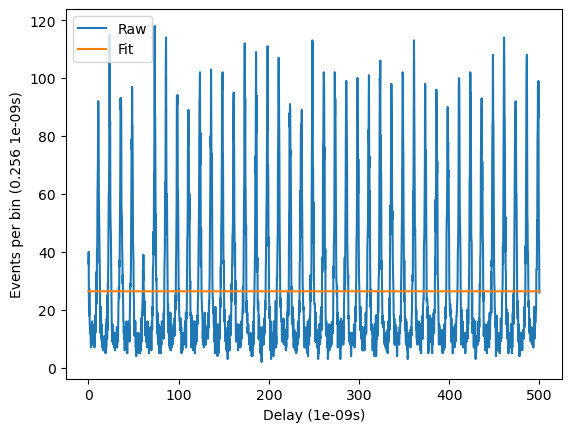
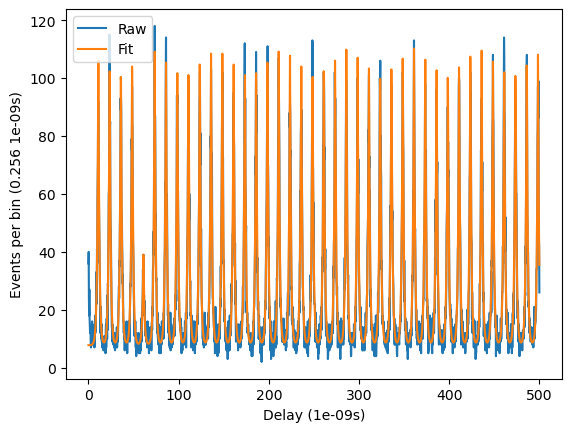
Nelder Mead Fit
Due to the scipy curve fit method not being particularly robust, this code employs third-party lmfit package to fit the histograms.
Currently, the Nelder Mead algorithm initially fits several parameters.
Least-squares refining of amplitudes follows.
It is not yet clear how to represent confidence bounds.

Changed region(s): [[0.1489, 0.1204, 0.9527, 0.8125]]

diff --git a/code/calc.py b/code/calc.py
@@ -7,6 +7,7 @@ Created on Mon Nov 14 21:28:59 2022
 
 import numpy as np
 from scipy.optimize import curve_fit
+from lmfit import Parameters, minimize, fit_report
 
 def compile_domain_knowledge(in_pulse_freq, in_delta_zero, in_delay_range):
     
@@ -73,20 +74,96 @@ def calc_g2zero_quick(in_df_sample, in_bin_size, in_knowledge):
     
     return g2zero, amp_stats, bg_stats
 
-# Define the core fitting function for the delay histogram.
-# Is based on Eq. (2) of: https://doi.org/10.1063/1.5143786
-# x: domain (delays)
-# in_knowledge: domain knowledge for how the delay histogram should look
-# delay_shift: a minor adjustment for peak delays to get the best fit
-# bg: background number of events per bin (noise)
-# amp_env: envelope amplitude for the n peaks, which centres at the MPE peak
-# amp_ratio: the ratio of the MPE peak to the envelope amplitude, i.e. g2(0)
-# inv_decay_env: the inverse decay scale for the envelope
-# decay_peak: the decay scale for an individual peak
-def func(x, in_knowledge, #*args):
-    bg, delay_shift, amp_env, decay_peak, amp_ratio, inv_decay_env):
+# # Define the core fitting function for the delay histogram.
+# # Is based on Eq. (2) of: https://doi.org/10.1063/1.5143786
+# # x: domain (delays)
+# # in_knowledge: domain knowledge for how the delay histogram should look
+# # delay_shift: a minor adjustment for peak delays to get the best fit
+# # bg: background number of events per bin (noise)
+# # amp_env: envelope amplitude for the n peaks, which centres at the MPE peak
+# # amp_ratio: the ratio of the MPE peak to the envelope amplitude, i.e. g2(0)
+# # inv_decay_env: the inverse decay scale for the envelope
+# # decay_peak: the decay scale for an individual peak
+# def func(x, in_knowledge, #*args):
+#     bg, delay_shift, amp_env, decay_peak, amp_ratio, inv_decay_env):
+#     # print(args)
+#     # bg, delay_shift, amp_env, decay_peak, amp_ratio, inv_decay_env = args[0]
+    
+#     # Extract domain knowledge on how the event histogram should look.
+#     n_peaks = in_knowledge["n_peaks"]
+#     id_mpe = in_knowledge["id_mpe"]
+#     pulse_period = in_knowledge["pulse_period"]
+#     delay_start = in_knowledge["delay_start"]
+    
+#     delay_start += delay_shift  # Adjust the domain knowledge with the fit.
+#     delay_mpe = delay_start + id_mpe*pulse_period
+#     # inv_decay_env = 0
+#     # decay_peak = 1e-9
+    
+#     fit = bg
+#     for i in range(n_peaks):
+#         term = amp_env*np.exp(-abs(x-delay_mpe)*inv_decay_env
+#                               -abs(x-delay_start-i*pulse_period)/decay_peak)
+#         if i == id_mpe:
+#             term *= amp_ratio
+#         fit += term
+#     return fit
+
+# # A basic form of the core fitting function with four arguments.
+# # The third and fourth denote a common peak amplitude and decay rate.
+# def func_basic(x, in_knowledge, *args):
+#     print(args)
+#     # bg, delay_shift, amp_env, decay_peak = args[0]
+#     # print("BG %f. Delta %f. Amp all %f. Tau all %f." % (bg, delta, amp_all, tau_all))
+#     return func(x, in_knowledge, *args[0], 0.5, 0)
+
+# # # A fine form of the core fitting function with 2n arguments.
+# # # Assumes the background and delta are already optimised.
+# # # The first n args are amplitudes, and the second n args are decay rates.
+# def func_fine(x, in_knowledge, bg, delay_shift, *args):
+#     print(args)
+#     return func(x, in_knowledge, bg, delay_shift, *args[0])
+
+# def calc_g2zero_fit(in_df_sample, in_df_delays, in_knowledge):
+    
+#     # Set up initial guesses and bounds for fitting parameters in func above.
+#     # They are: bg, delay_shift, amp_env, decay_peak, amp_ratio, inv_decay_env
+#     # n_peaks = in_knowledge["n_peaks"]
+#     # pulse_period = in_knowledge["pulse_period"]
+#     # amp_init = 2*sum(in_df_sample)/len(in_df_delays)
+#     # decay_init = in_df_delays[1] - in_df_delays[0]
+#     # p_init = [0, 0, amp_init, 0.5, 0, decay_init]
+#     # p_bounds = ([-pulse_period/2, 0, 0, 0, 0, 0], 
+#     #             [pulse_period/2, np.inf, np.inf, 1, np.inf, np.inf])
+    
+#     pulse_period = in_knowledge["pulse_period"]
+#     decay_init = in_df_delays[1] - in_df_delays[0]
+#     p_init = [0, 0, 1, decay_init]
+#     p_bounds = ([0, -pulse_period/2, 0, 0],
+#                 [np.inf, pulse_period/2, np.inf, pulse_period])
+    
+#     p_opt, p_cov = curve_fit(lambda x, *p: func_basic(x, in_knowledge, p), xdata=in_df_delays, ydata=in_df_sample, p0=p_init, bounds=p_bounds)
+#     p_store = list(p_opt[:2])
+#     p_init = list(p_opt[2:]) + [0.5, 0]
+#     p_bounds = (p_bounds[0][2:] + [0, 0],
+#                 p_bounds[1][2:] + [1, np.inf])
+#     p_opt, p_cov = curve_fit(lambda x, *p: func_fine(x, in_knowledge, p_store[0], p_store[1], p), xdata=in_df_delays, ydata=in_df_sample, p0=p_init, bounds=p_bounds)
+#     p_opt = p_store + list(p_opt)
+#     print(p_opt)
+    
+#     return p_opt
+
+def func(params, x, y, in_knowledge, return_fit_error=False):
     # print(args)
     # bg, delay_shift, amp_env, decay_peak, amp_ratio, inv_decay_env = args[0]
+    # print(params)
+    bg = params["bg"]
+    delay_shift = params["delay_shift"]
+    amp_env = params["amp_env"]
+    decay_peak = params["decay_peak"]
+    amp_ratio = params["amp_ratio"]
+    # inv_decay_env = params["inv_decay_env"]
+    
     
     # Extract domain knowledge on how the event histogram should look.
     n_peaks = in_knowledge["n_peaks"]
@@ -95,59 +172,39 @@ def func(x, in_knowledge, #*args):
     delay_start = in_knowledge["delay_start"]
     
     delay_start += delay_shift  # Adjust the domain knowledge with the fit.
-    delay_mpe = delay_start + id_mpe*pulse_period
-    # inv_decay_env = 0
-    # decay_peak = 1e-9
+    # delay_mpe = delay_start + id_mpe*pulse_period
     
     fit = bg
     for i in range(n_peaks):
-        term = amp_env*np.exp(-abs(x-delay_mpe)*inv_decay_env
-                              -abs(x-delay_start-i*pulse_period)/decay_peak)
+        # term = amp_env*np.exp(-abs(x-delay_mpe)*inv_decay_env
+        #                       -abs(x-delay_start-i*pulse_period)/decay_peak)
+        term = amp_env*np.exp(-abs(x-delay_start-i*pulse_period)/decay_peak)
         if i == id_mpe:
-            term *= amp_ratio
-        fit += term
-    return fit
-
-# A basic form of the core fitting function with four arguments.
-# The third and fourth denote a common peak amplitude and decay rate.
-def func_basic(x, in_knowledge, *args):
-    print(args)
-    # bg, delay_shift, amp_env, decay_peak = args[0]
-    # print("BG %f. Delta %f. Amp all %f. Tau all %f." % (bg, delta, amp_all, tau_all))
-    return func(x, in_knowledge, *args[0], 0.5, 0)
-
-# # A fine form of the core fitting function with 2n arguments.
-# # Assumes the background and delta are already optimised.
-# # The first n args are amplitudes, and the second n args are decay rates.
-def func_fine(x, in_knowledge, bg, delay_shift, *args):
-    print(args)
-    return func(x, in_knowledge, bg, delay_shift, *args[0])
+            term = term*amp_ratio
+        fit = fit + term
+    if return_fit_error:
+        return fit - y
+    else:
+        return fit
 
 def calc_g2zero_fit(in_df_sample, in_df_delays, in_knowledge):
     
-    # Set up initial guesses and bounds for fitting parameters in func above.
-    # They are: bg, delay_shift, amp_env, decay_peak, amp_ratio, inv_decay_env
-    # n_peaks = in_knowledge["n_peaks"]
-    # pulse_period = in_knowledge["pulse_period"]
-    # amp_init = 2*sum(in_df_sample)/len(in_df_delays)
-    # decay_init = in_df_delays[1] - in_df_delays[0]
-    # p_init = [0, 0, amp_init, 0.5, 0, decay_init]
-    # p_bounds = ([-pulse_period/2, 0, 0, 0, 0, 0], 
-    #             [pulse_period/2, np.inf, np.inf, 1, np.inf, np.inf])
-    
     pulse_period = in_knowledge["pulse_period"]
-    decay_init = in_df_delays[1] - in_df_delays[0]
-    p_init = [0, 0, 1, decay_init]
-    p_bounds = ([0, -pulse_period/2, 0, 0],
-                [np.inf, pulse_period/2, np.inf, pulse_period])
+    max_events = sum(in_df_sample)
     
-    p_opt, p_cov = curve_fit(lambda x, *p: func_basic(x, in_knowledge, p), xdata=in_df_delays, ydata=in_df_sample, p0=p_init, bounds=p_bounds)
-    p_store = list(p_opt[:2])
-    p_init = list(p_opt[2:]) + [0.5, 0]
-    p_bounds = (p_bounds[0][2:] + [0, 0],
-                p_bounds[1][2:] + [1, np.inf])
-    p_opt, p_cov = curve_fit(lambda x, *p: func_fine(x, in_knowledge, p_store[0], p_store[1], p), xdata=in_df_delays, ydata=in_df_sample, p0=p_init, bounds=p_bounds)
-    p_opt = p_store + list(p_opt)
-    print(p_opt)
+    params = Parameters()
+    params.add("bg", value = 0, min = 0, max = max_events)
+    params.add("delay_shift", value = 0, min = -pulse_period/2, max = pulse_period/2)
+    params.add("amp_env", value = 1, min = 0, max = max_events)
+    params.add("decay_peak", value = in_df_delays[1] - in_df_delays[0], min = 0, max = pulse_period)
+    params.add("amp_ratio", value = 0.5, min = 0, max = 1)
+    # params.add("inv_decay_env", value = 0, min = 0, max = np.inf)
     
-    return p_opt
+    fitted_params = minimize(func, params, args=(in_df_delays, in_df_sample, in_knowledge, True), method="nelder_mead")
+    fitted_params.params["delay_shift"].vary = False
+    fitted_params.params["bg"].vary = False
+    fitted_params.params["decay_peak"].vary = False
+    fitted_params = minimize(func, fitted_params.params, args=(in_df_delays, in_df_sample, in_knowledge, True), method="least_squares")
+    # fitted_params = minimize(func, fitted_params.params, args=(in_df_delays, in_df_sample, in_knowledge, True), method="least_squares")
+    
+    return fitted_params

diff --git a/code/eda.py b/code/eda.py
@@ -16,14 +16,14 @@ import calc
 import plot
 
 filename_prefixes = [
-    # "1p2uW_3000cps_time bin width 128 ps",
-    "2p5uW_4000cps"#,
-    # "4uW_4100cps",
-    # "8uW_5100cps",
-    # "10uW_6000cps",
-    # "10uW_12000cps",
-    # "20uW_7000cps",
-    # "30uW_7000cps"
+    "1p2uW_3000cps_time bin width 128 ps",
+    "2p5uW_4000cps",
+    "4uW_4100cps",
+    "8uW_5100cps",
+    "10uW_6000cps",
+    "10uW_12000cps",
+    "20uW_7000cps",
+    "30uW_7000cps"
     ]
 folder_data = "../data/"
 folder_plots = "../results/"
@@ -86,6 +86,13 @@ for filename_prefix in filename_prefixes:
     # Sum all snapshots of the detection events.
     df_sample_full = df_events.sum(axis=1)
     
+    # Generate domain knowledge on how the histogram should look like.
+    domain_knowledge = calc.compile_domain_knowledge(pulse_freq, 
+                                                     delta_zero, delay_range)
+    closeup_xlim = [delta_zero - domain_knowledge["pulse_period"]*3/2,
+                    delta_zero + domain_knowledge["pulse_period"]*3/2]
+     
+    
     # Rolling-average out the noise for a delay-based histogram of the sample.
     kernel_size = max(1, int(smoothing_bound*2/(delay_bin_size)))
     kernel = np.ones(kernel_size)/kernel_size
@@ -94,21 +101,20 @@ for filename_prefix in filename_prefixes:
     # Plot the delay-based histogram of the full sample, raw and smoothed.
     plot.plot_event_histogram(df_sample_full, df_delays, delay_unit, plot_prefix + "_smooth",
                               in_hist_comp = df_sample_full_smooth, 
-                              in_label_comp = "Rolling Avg. (" + str(kernel_size) + " bins)")
-
-    # Generate domain knowledge on how the histogram should look like.
-    domain_knowledge = calc.compile_domain_knowledge(pulse_freq, 
-                                                     delta_zero, delay_range)
+                              in_label_comp = "Rolling Avg. (" + str(kernel_size) + " bins)",
+                              in_closeup_xlim = closeup_xlim)
     
     # Fit the expectation of the histogram: https://doi.org/10.1063/1.5143786
     t = time()
-    p_opt = calc.calc_g2zero_fit(df_sample_full, df_delays, domain_knowledge)
-    print("Fit for %i parameters: %f s" % (len(p_opt), time() - t))
+    fit_result = calc.calc_g2zero_fit(df_sample_full, df_delays, domain_knowledge)
+    print("Fit for %i parameters: %f s" % (len(fit_result.params), time() - t))
+    print("g2(0) = %f +- %f" % (fit_result.params["amp_ratio"].value, fit_result.params["amp_ratio"].stderr))
     
     # Plot the delay-based histogram of the full sample, raw and fitted.
     plot.plot_event_histogram(df_sample_full, df_delays, delay_unit, plot_prefix + "_fit",
-                              in_hist_comp = calc.func(df_delays, domain_knowledge, *p_opt), 
-                              in_label_comp = "Fit")
+                              in_hist_comp = calc.func(fit_result.params, df_delays, df_sample_full, domain_knowledge), 
+                              in_label_comp = "Fit",
+                              in_closeup_xlim = closeup_xlim)
     
     # # Generate and plot traces of how quality estimates change over time.
     # np.random.seed(random_seed)

diff --git a/code/plot.py b/code/plot.py
@@ -27,7 +27,8 @@ def plot_event_history(in_df_events, in_axis_time, in_save_prefix):
 
 
 def plot_event_histogram(in_hist, in_axis_delays, in_delay_unit, in_save_prefix,
-                         in_hist_comp = None, in_label_comp = None):
+                         in_hist_comp = None, in_label_comp = None,
+                         in_closeup_xlim = None):
     # Plot a delay-based histogram.
     # Optionally compare it against another function on the same axis.
     fig_sample, ax_sample = plt.subplots()
@@ -41,7 +42,13 @@ def plot_event_histogram(in_hist, in_axis_delays, in_delay_unit, in_save_prefix,
     ax_sample.legend()
     fig_sample.savefig(in_save_prefix + "_hist.png",
                        bbox_inches="tight")
-    # plt.close(fig_sample)
+    plt.close(fig_sample)
+    
+    if in_closeup_xlim is not None:
+        ax_sample.set_xlim(np.array(in_closeup_xlim)/in_delay_unit)
+        fig_sample.savefig(in_save_prefix + "_hist_closeup.png",
+                           bbox_inches="tight")
+        plt.close(fig_sample)
 
 
 def plot_traces(in_trace_matrix, in_axis_time, 

diff --git a/code/eda_221110.py b/code/eda_221110.py
@@ -105,7 +105,7 @@ def func(x, n, bg, delta, amps, taus):
 # The third and fourth denote a common peak amplitude and decay rate.
 def func_basic(x, n, *args):
     bg, delta, amp_all, tau_all = args[0]
-    print("BG %f. Delta %f. Amp all %f. Tau all %f." % (bg, delta, amp_all, tau_all))
+    # print("BG %f. Delta %f. Amp all %f. Tau all %f." % (bg, delta, amp_all, tau_all))
     return func(x, n, bg, delta, [amp_all]*n, [tau_all]*n)
 
 # A fine form of the core fitting function with 2n arguments.

diff --git a/README.md b/README.md
@@ -1,2 +1,5 @@
 # sps-quality
 An ML application working to predict the quality of single photon sources (i.e. quantum dots).
+
+Dependencies:
+conda install -c conda-forge lmfit
